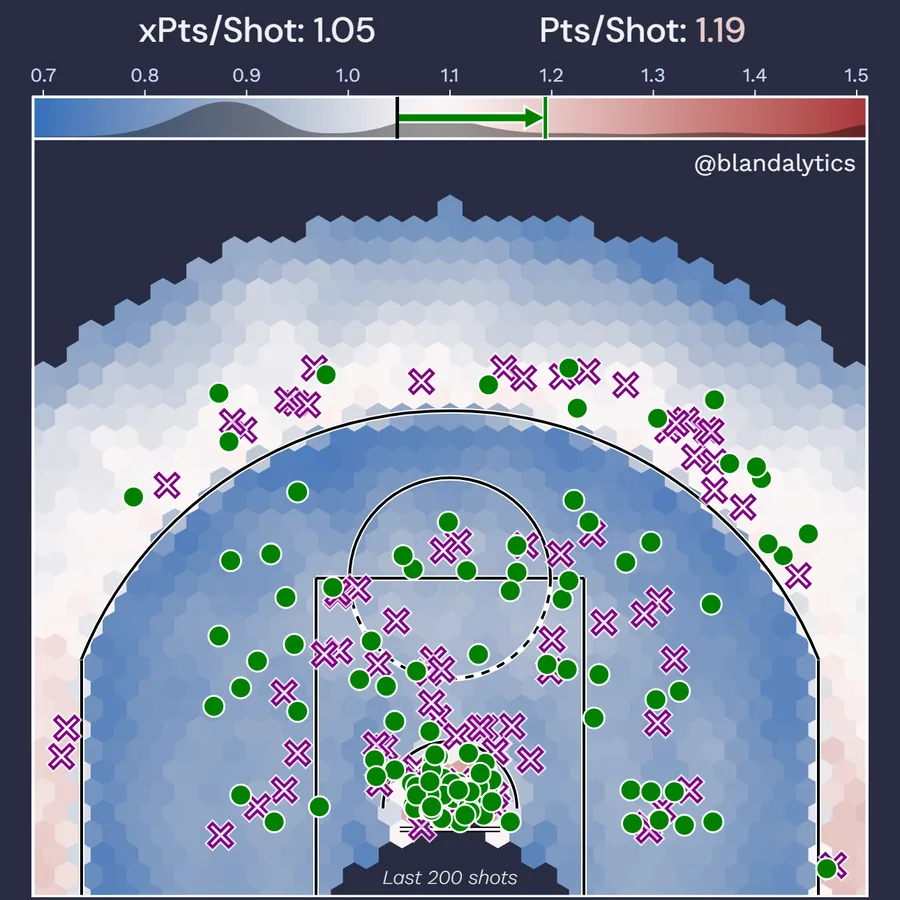
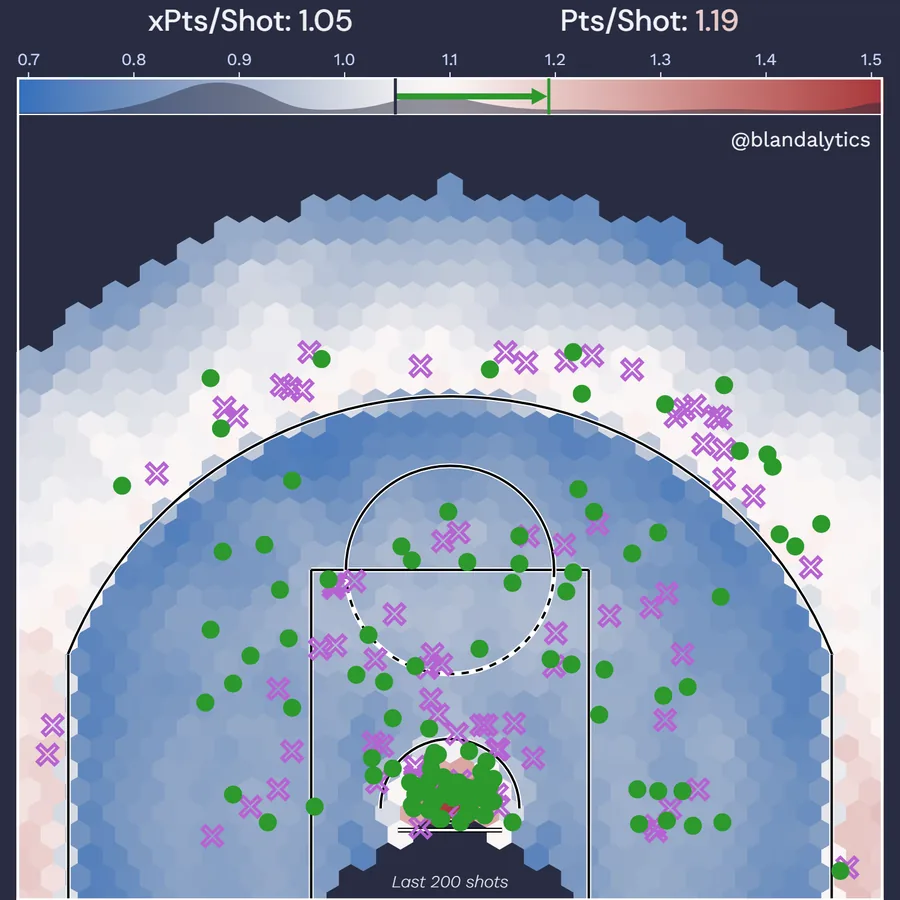
NBA Shot Charts: stacked figure, balanced green and purple, sharp canvases
- The scoring chart stacks the app's two panels: the court and its xPTS scale on top, the
  points waterfall underneath (800 x 1440); a long title shrinks to fit.
- Green and purple are lightened to the luminance with equal contrast against the background
  and the scale's white midpoint (#2c992c, #b662d2: ~3.7:1 and ~3.4:1), so the makes, misses,
  arrow and Pts/Shot line drop their white outlines. The scatter uses the same pair.
- The colorbar's KDE is the background colour at 50%; the xPts/Shot marker is the background
  colour; the box's bottom edge is half the width of its other sides.
- Both canvases are drawn at their displayed width times the device pixel ratio and redrawn on
  resize, so text is never downscaled by the browser (it read choppy at ~960 px). Share image
  still exports at 2x.

figure.js and app.js go to v4, scatter.js to v3; the homepage tile is regrabbed (?v=4).

diff --git a/nba-shot-charts/figure.js b/nba-shot-charts/figure.js
@@ -1,15 +1,18 @@
 // NBA Shot Charts: the app's scoring summary figure (shot_summary() in nba_shot_chart.py),
-// drawn on a canvas in the figure's own 1400 x 800 layout (the app's 14 x 8 in at 100 dpi),
-// in the app's colours: green where a player made shots and added points, purple where they
+// drawn on an 800 x 1440 canvas with the app's two panels stacked: the court and its xPTS scale
+// on top, the points waterfall under it. In the app's colours: green where a player made shots and added points, purple where they
 // missed and gave some back, the xPTS court in seaborn's vlag.
 
 import { SEASON_SHOT_LIMIT, density } from "./model.js?v=1";
 
-export const W = 1400, H = 800;
+export const W = 800, H = 1440;
 
 const C = {
   bg: "#292c42", ink: "#f0f1f5", nav: "#cbd7fd",
-  green: "#008000", purple: "#800080",   // matplotlib's "green" and "purple", as the app names them
+  // the app's green and purple, each lightened to the luminance (0.234) that gives the same contrast
+  // against the background and the scale's white midpoint (~3.7:1 and ~3.4:1), so neither needs a
+  // white edge; the purple turned a little toward violet so it doesn't read as magenta
+  green: "#2c992c", purple: "#b662d2",
   line: "#000000", outline: "#ffffff",
 };
 const DISPLAY = '"DM Sans", system-ui, sans-serif';
@@ -30,10 +33,10 @@ function colormap(cmap) {
 // ---- layout ------------------------------------------------------------------------------
 
 // the court: data x -250..250, y -53..400 (the app's xlim / ylim), hoop at (0, 0)
-const COURT = { x0: 760, scale: 1.2, bottom: 752, xlim: [-250, 250], ylim: [-53, 400] };
+const COURT = { x0: 40, scale: 1.44, top: 180, xlim: [-250, 250], ylim: [-53, 400] };
 COURT.w = (COURT.xlim[1] - COURT.xlim[0]) * COURT.scale;
 COURT.h = (COURT.ylim[1] - COURT.ylim[0]) * COURT.scale;
-COURT.top = COURT.bottom - COURT.h;
+COURT.bottom = COURT.top + COURT.h;
 const cx = (x) => COURT.x0 + (x - COURT.xlim[0]) * COURT.scale;
 const cy = (y) => COURT.bottom - (y - COURT.ylim[0]) * COURT.scale;
 
@@ -41,8 +44,8 @@ const cy = (y) => COURT.bottom - (y - COURT.ylim[0]) * COURT.scale;
 const CB = { x0: cx(-249), w: cx(249) - cx(-249), top: COURT.top - 30, h: 30 };
 const cbx = (v) => CB.x0 + ((v - BAR.lo) / (BAR.hi - BAR.lo)) * CB.w;
 
-// the waterfall: categories 0..5 across xlim (-0.6, 5.5), points 0..max * 1.25 up
-const FALL = { x0: 70, x1: 700, top: 112, bottom: 752, xlim: [-0.6, 5.5] };
+// the waterfall under the court: categories 0..5 across xlim (-0.6, 5.5), points 0..max * 1.25 up
+const FALL = { x0: 40, x1: 760, top: COURT.bottom + 52, bottom: H - 40, xlim: [-0.6, 5.5] };
 const fx = (x) => FALL.x0 + ((x - FALL.xlim[0]) / (FALL.xlim[1] - FALL.xlim[0])) * (FALL.x1 - FALL.x0);
 
 // ---- drawing -----------------------------------------------------------------------------
@@ -56,11 +59,17 @@ export function draw(canvas, sum, grid, { scale = 2, title } = {}) {
   ctx.fillStyle = C.bg;
   ctx.fillRect(0, 0, W, H);
 
-  text(ctx, title, W * 0.51, 46, { font: `700 33px ${DISPLAY}`, align: "center" });
+  text(ctx, title, W / 2, 46, { font: `700 ${fit(ctx, title, 700, 33, W - 48)}px ${DISPLAY}`, align: "center" });
   const heat = colormap(grid.cmap);
   court(ctx, sum, grid, heat);
   colorbar(ctx, sum, heat);
   waterfall(ctx, sum);
+}
+
+// the largest size up to `max` at which `s` fits in `room`
+function fit(ctx, s, weight, max, room) {
+  ctx.font = `${weight} ${max}px ${DISPLAY}`;
+  return Math.max(18, Math.floor(max * Math.min(1, room / ctx.measureText(s).width)));
 }
 
 function text(ctx, s, x, y, { font = `400 17px ${TEXT}`, color = C.ink, align = "left", baseline = "middle" } = {}) {
@@ -153,7 +162,7 @@ function courtLines(ctx) {
   ctx.setLineDash([]);
 }
 
-// misses as an open X (white under purple), makes as a green dot with a white edge
+// misses as an open purple X, makes as a green dot
 function shots(ctx, marked) {
   const xPath = (x, y, r) => {
     const t = r * 0.32;   // matplotlib's "X": a filled cross, drawn here by its outline
@@ -166,15 +175,13 @@ function shots(ctx, marked) {
   for (const s of marked) {
     if (s.made) continue;
     xPath(cx(s.x), cy(s.y), 8.5);
-    ctx.globalAlpha = 0.75; ctx.strokeStyle = C.outline; ctx.lineWidth = 4.5; ctx.stroke();
-    ctx.globalAlpha = 1; ctx.strokeStyle = C.purple; ctx.lineWidth = 2; ctx.stroke();
+    ctx.strokeStyle = C.purple; ctx.lineWidth = 2.5; ctx.stroke();
   }
   for (const s of marked) {
     if (!s.made) continue;
     ctx.beginPath();
     ctx.arc(cx(s.x), cy(s.y), 7.5, 0, Math.PI * 2);
     ctx.fillStyle = C.green; ctx.fill();
-    ctx.strokeStyle = C.outline; ctx.lineWidth = 1.4; ctx.stroke();
   }
 }
 
@@ -184,7 +191,7 @@ function colorbar(ctx, sum, heat) {
     ctx.fillStyle = heat(BAR.lo + ((px + 0.5) / CB.w) * (BAR.hi - BAR.lo));
     ctx.fillRect(CB.x0 + px, top, 1.5, h);
   }
-  // the shots' xPTS distribution, as a shadow over the scale
+  // the shots' xPTS distribution, in the background's colour at half strength
   if (sum.xptsValues.length > 1) {
     const xs = Array.from({ length: 200 }, (_, i) => BAR.lo + (i / 199) * (BAR.hi - BAR.lo));
     const ys = density(sum.xptsValues, BAR.lo, BAR.hi, xs);
@@ -194,12 +201,17 @@ function colorbar(ctx, sum, heat) {
       xs.forEach((x, i) => ctx.lineTo(cbx(x), top + h - ys[i] * h));
       ctx.lineTo(cbx(xs[xs.length - 1]), top + h);
       ctx.closePath();
-      ctx.fillStyle = "rgba(0,0,0,.4)";
+      ctx.fillStyle = "rgba(41,44,66,.5)";   // C.bg at 50%
       ctx.fill();
     }
   }
-  ctx.strokeStyle = C.outline; ctx.lineWidth = 2;
-  ctx.strokeRect(CB.x0, top, CB.w, h);
+  // a white edge: 2 on the top and sides, half that along the bottom where it meets the court
+  ctx.strokeStyle = C.outline; ctx.lineWidth = 2; ctx.lineJoin = "miter";
+  ctx.beginPath();
+  ctx.moveTo(CB.x0, top + h); ctx.lineTo(CB.x0, top); ctx.lineTo(CB.x0 + CB.w, top); ctx.lineTo(CB.x0 + CB.w, top + h);
+  ctx.stroke();
+  ctx.lineWidth = 1;
+  ctx.beginPath(); ctx.moveTo(CB.x0, top + h); ctx.lineTo(CB.x0 + CB.w, top + h); ctx.stroke();
 
   // ticks along the top, as matplotlib places them
   for (let v = 0.7; v <= 1.5001; v += 0.1) {
@@ -218,24 +230,17 @@ function colorbar(ctx, sum, heat) {
     ctx.strokeStyle = color; ctx.lineWidth = width;
     ctx.beginPath(); ctx.moveTo(cbx(v), top); ctx.lineTo(cbx(v), top + h); ctx.stroke();
   };
-  // the arrow from xPts/Shot to Pts/Shot: a white outline, then the line, then the arrow's fill, so
-  // its point ends on the coloured line's near edge
+  // the arrow from xPts/Shot to Pts/Shot, its point on the coloured line's near edge
   const ACTUAL_W = 2.5;
   const shaft = Math.abs(actual - expected) >= 0.025 && Number.isFinite(actual) && Number.isFinite(expected)
     ? arrowPath(cbx(clip(expected)), cbx(clip(actual)) - (up ? 1 : -1) * ACTUAL_W / 2, top + h / 2)
     : null;
-  if (shaft) {
-    ctx.lineJoin = "miter";
-    ctx.strokeStyle = C.outline; ctx.lineWidth = 3;
-    ctx.stroke(shaft);
-  }
-  vline(actual, C.outline, 4.5);
   vline(actual, tone, ACTUAL_W);
   if (shaft) {
     ctx.fillStyle = tone;
     ctx.fill(shaft);
   }
-  vline(expected, C.line, 2.5);
+  vline(expected, C.bg, 2.5);   // xPts/Shot, in the background's colour
 
   // each value in the scale's colour at that value, its label in white, the pair centred together
   const label = (name, v, x) => {

diff --git a/nba-shot-charts/app.js b/nba-shot-charts/app.js
@@ -5,8 +5,8 @@
 // A chart is linkable as #<season>/<player id>/<game id | season>.
 
 import { prepare, defaultPick, summary, seasonBoard, gameBoard, valueAdded, teamMinutes } from "./model.js?v=1";
-import { draw } from "./figure.js?v=3";
-import { drawScatter } from "./scatter.js?v=2";
+import { draw, W as FIG_W } from "./figure.js?v=4";
+import { drawScatter, SW } from "./scatter.js?v=3";
 
 const params = new URLSearchParams(location.search);
 const DATA = new URL(params.get("data") || "https://data.blandalytics.com/", location.href).href;
@@ -16,7 +16,7 @@ const el = {
   seasonLabel: $("season_label"), through: $("through"), chartBox: $("chart_box"), fig: $("fig"), share: $("share_png"),
   sliders: $("sliders"), seasonMin: $("season_min"), gameMin: $("game_min"), seasonMinV: $("season_min_v"), gameMinV: $("game_min_v"),
   seasonBoard: $("season_board"), gameBoard: $("game_board"), seasonBoardDesc: $("season_board_desc"), gameBoardDesc: $("game_board_desc"),
-  va: $("va"), vaTip: $("va_tip"), vaDesc: $("va_desc"), team: $("team"), allTeams: $("all_teams"), minutes: $("minutes"),
+  va: $("va"), vaBox: $("va_box"), vaTip: $("va_tip"), vaDesc: $("va_desc"), team: $("team"), allTeams: $("all_teams"), minutes: $("minutes"),
 };
 const viewChips = [...document.querySelectorAll("[data-view]")];
 const modeChips = [...document.querySelectorAll("[data-mode]")];
@@ -94,6 +94,24 @@ function loadMinutes(entry) {
   return cache.get(k);
 }
 
+// On screen a canvas is drawn at its displayed width times the device's pixel ratio, so its text
+// is never shrunk by the browser (a fixed 2x canvas squeezed into ~950 px reads jagged); it is
+// redrawn whenever its box changes width. Share image still draws its own canvas at 2x.
+function screenScale(canvas, logicalWidth) {
+  const shown = canvas.getBoundingClientRect().width || canvas.parentElement.clientWidth || logicalWidth;
+  return Math.max(0.25, (shown * (window.devicePixelRatio || 1)) / logicalWidth);
+}
+const drawnAt = new Map();   // box -> the width it was last drawn for
+const resized = new ResizeObserver((entries) => requestAnimationFrame(() => {
+  if (!state.data) return;
+  for (const { target } of entries) {
+    const w = target.clientWidth;
+    if (!w || drawnAt.get(target) === w) continue;
+    if (target === el.chartBox) drawChart();
+    else renderValueAdded();
+  }
+}));
+
 // ---- the scoring chart -------------------------------------------------------------------
 
 function title(sum) {
@@ -118,13 +136,18 @@ function renderChart() {
   el.game.closest(".game").hidden = state.view !== "game";
   viewChips.forEach((b) => b.setAttribute("aria-pressed", String(b.dataset.view === state.view)));
 
-  const sum = current();
-  draw(el.fig, sum, state.grid, { scale: 2, title: title(sum) });
-  el.fig.setAttribute("aria-label", `${title(sum)}: ${Math.round(sum.fgPts + sum.ftm)} points on ${sum.n} shots`);
   el.chartBox.hidden = false;
   el.share.hidden = false;
+  drawChart();
   status("");
   writeHash();
+}
+
+function drawChart() {
+  const sum = current();
+  draw(el.fig, sum, state.grid, { scale: screenScale(el.fig, FIG_W), title: title(sum) });
+  el.fig.setAttribute("aria-label", `${title(sum)}: ${Math.round(sum.fgPts + sum.ftm)} points on ${sum.n} shots`);
+  drawnAt.set(el.chartBox, el.chartBox.clientWidth);
 }
 
 function writeHash() {
@@ -320,12 +343,13 @@ for (const [box, which] of [[el.seasonBoard, "season"], [el.gameBoard, "game"]])
 let vaPoints = [];
 function renderValueAdded() {
   const va = valueAdded(state.data);
-  vaPoints = drawScatter(el.va, va, { scale: 2 });
+  vaPoints = drawScatter(el.va, va, { scale: screenScale(el.va, SW) });
+  drawnAt.set(el.vaBox, el.vaBox.clientWidth);
   el.vaDesc.textContent = `Points added by the shots a player takes (quality, up) and by making them (across), for the ${va.rows.length} players with at least ${Math.ceil(va.threshold)} shots, the top quarter by volume. Each diagonal is a line of equal points added, the solid one through the league average; the dashed ones step out ${num(va.guideStep * 2, 1)} points (one standard deviation) at a time. Hover a player for the numbers.`;
 }
 el.va.addEventListener("pointermove", (e) => {
   const rect = el.va.getBoundingClientRect();
-  const k = 1100 / rect.width;
+  const k = SW / rect.width;
   const x = (e.clientX - rect.left) * k, y = (e.clientY - rect.top) * k;
   let best = null, dist = 16 * 16;
   for (const p of vaPoints) {
@@ -454,4 +478,6 @@ async function start() {
   useSeason(entry, want);
 }
 
+resized.observe(el.chartBox);
+resized.observe(el.vaBox);
 start();

diff --git a/nba-shot-charts/index.html b/nba-shot-charts/index.html
@@ -39,7 +39,7 @@
 /* the figures fill the card's width and keep their own proportions */
 .figure{position:relative; border-radius:var(--radius-lg); overflow:hidden; background:var(--card-card-bg)}
 .figure canvas{display:block; width:100%; height:auto}
-.figure.chart{max-width:1400px}
+.figure.chart{max-width:800px; width:100%; margin:0 auto}
 .figure.scatter{max-width:1100px}
 .actions{display:flex; flex-wrap:wrap; gap:12px; align-items:center}
 .plpd-tooltip{position:absolute; pointer-events:none; z-index:4}
@@ -130,7 +130,7 @@ p{text-wrap:pretty}
         <select id="game" class="plpd-filter-dropdown" disabled></select></label>
     </div>
     <p id="status" class="plpd-status">Loading the seasons…</p>
-    <div class="figure chart" id="chart_box" hidden><canvas id="fig" width="2800" height="1600" role="img" aria-label="Scoring summary"></canvas></div>
+    <div class="figure chart" id="chart_box" hidden><canvas id="fig" width="1600" height="2880" role="img" aria-label="Scoring summary"></canvas></div>
     <div class="actions"><button id="share_png" class="plpd-btn" type="button" hidden>Share image ▾</button></div>
   </section>
 
@@ -192,6 +192,6 @@ p{text-wrap:pretty}
   </section>
 </div>
 <script src="/shared/share-image.js?v=2"></script>
-<script type="module" src="app.js?v=3"></script>
+<script type="module" src="app.js?v=4"></script>
 </body>
 </html>

diff --git a/index.html b/index.html
@@ -284,7 +284,7 @@
 								<div class="tiles">
 									<article class="style2">
 									<span class="image">
-										<img src="images/tile-nba-shot-charts.webp?v=3" srcset="images/tile-nba-shot-charts-720.webp?v=3 720w, images/tile-nba-shot-charts.webp?v=3 900w" sizes="(max-width: 480px) 100vw, (max-width: 980px) 50vw, 380px" width="900" height="900" alt="NBA shot chart: makes and misses over a court shaded by expected points per shot" />
+										<img src="images/tile-nba-shot-charts.webp?v=4" srcset="images/tile-nba-shot-charts-720.webp?v=4 720w, images/tile-nba-shot-charts.webp?v=4 900w" sizes="(max-width: 480px) 100vw, (max-width: 980px) 50vw, 380px" width="900" height="900" alt="NBA shot chart: makes and misses over a court shaded by expected points per shot" />
 									</span>
 									<a href="/nba-shot-charts/">
 										<h2>NBA Shot Charts</h2>

diff --git a/nba-shot-charts/scatter.js b/nba-shot-charts/scatter.js
@@ -2,7 +2,7 @@
 // Shot making across, shot quality up; each dashed diagonal is one more standard deviation
 // of points added, the solid one through the average.
 
-const C = { bg: "#292c42", ink: "#f0f1f5", nav: "#cbd7fd", axis: "#cbd7fd", green: [0, 128, 0], purple: [128, 0, 128] };
+const C = { bg: "#292c42", ink: "#f0f1f5", nav: "#cbd7fd", axis: "#cbd7fd", green: [44, 153, 44], purple: [182, 98, 210] };   // figure.js's green and purple
 const DISPLAY = '"DM Sans", system-ui, sans-serif';
 const TEXT = '"Work Sans", system-ui, sans-serif';
 

diff --git a/tools/homepage/make_tiles.py b/tools/homepage/make_tiles.py
@@ -48,8 +48,8 @@ CROPS = {
     "lineup-sims": (0.0, 0.0),           # the KPIs and the comparison strips
     "game-sim": None,                    # square already: the score grid's share image
     "created-runs": (0.0, 0.0),          # the title over the top of the leaderboard: names, CR and the batting columns
-    # the court under its xPTS scale and per-shot line (a box, in the 2800 x 1600 export's pixels)
-    "nba-shot-charts": (1475, 218, 2765, 1508),
+    # the court under its xPTS scale and per-shot line (a box, in the 1600 x 2880 export's pixels)
+    "nba-shot-charts": (53, 170, 1547, 1664),
 }
 
 

diff --git a/README.md b/README.md
@@ -1499,10 +1499,12 @@ be loaded on the page itself, without deploying, through the *Projections* file 
 player scored in one game or across a season. It is the
 [nba-scoring-chart.streamlit.app](https://nba-scoring-chart.streamlit.app/) app
 ([Blandalytics/nba_shot_chart](https://github.com/Blandalytics/nba_shot_chart)) rebuilt for the
-browser on the PLPD design system, its figures in the app's own colours (green for makes and points
-added, purple for misses and points given back, the court in seaborn's `vlag`): the scoring chart (the six-part points waterfall beside the
-court, shaded by the xFG model's expected points per shot, with the shots and their xPTS spread
-on the scale above), the season and game leaderboards (totals or per shot, with the app's two
+browser on the PLPD design system, its figures in the app's colours (green for makes and points
+added, purple for misses and points given back, the court in seaborn's `vlag`), the green and
+purple lightened to equal contrast against the background and the scale's white midpoint: the
+scoring chart (the app's two panels stacked, the court shaded by the xFG model's expected points
+per shot with the shots and their xPTS spread on the scale above it, then the six-part points
+waterfall underneath), the season and game leaderboards (totals or per shot, with the app's two
 minimum-shot sliders), Shot Value Added (shot quality against shot making for the top quarter
 of players by shots) and Team Minutes (one team, or every team by division). Pick a season, a
 player and a game, or the season-long chart; a chart is linkable as
